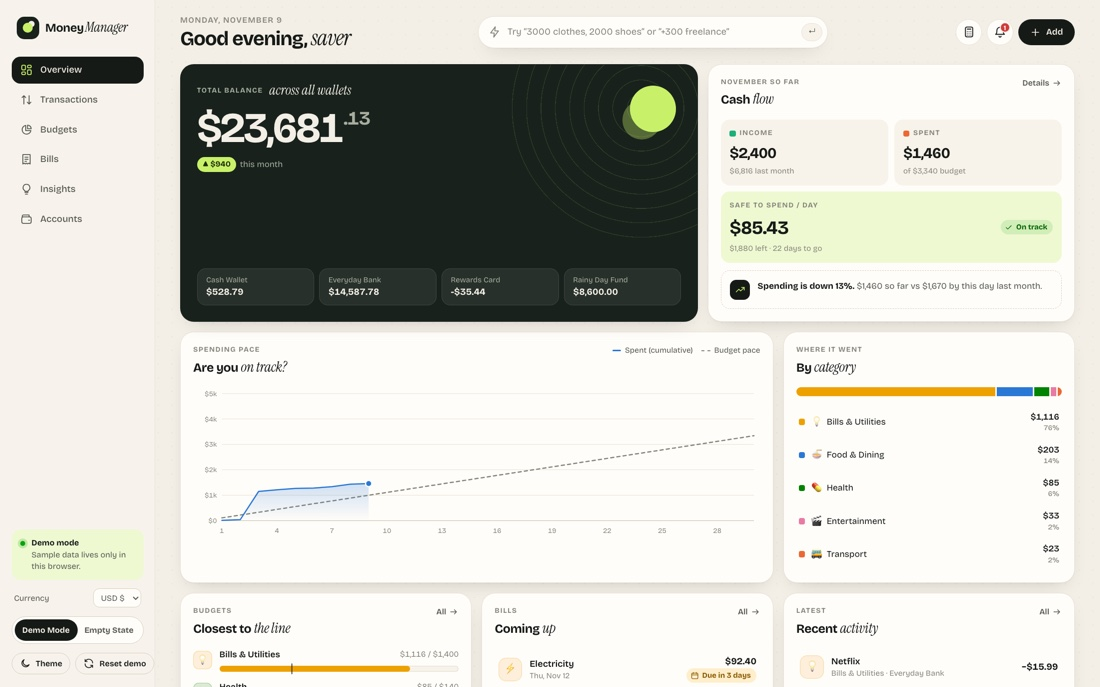
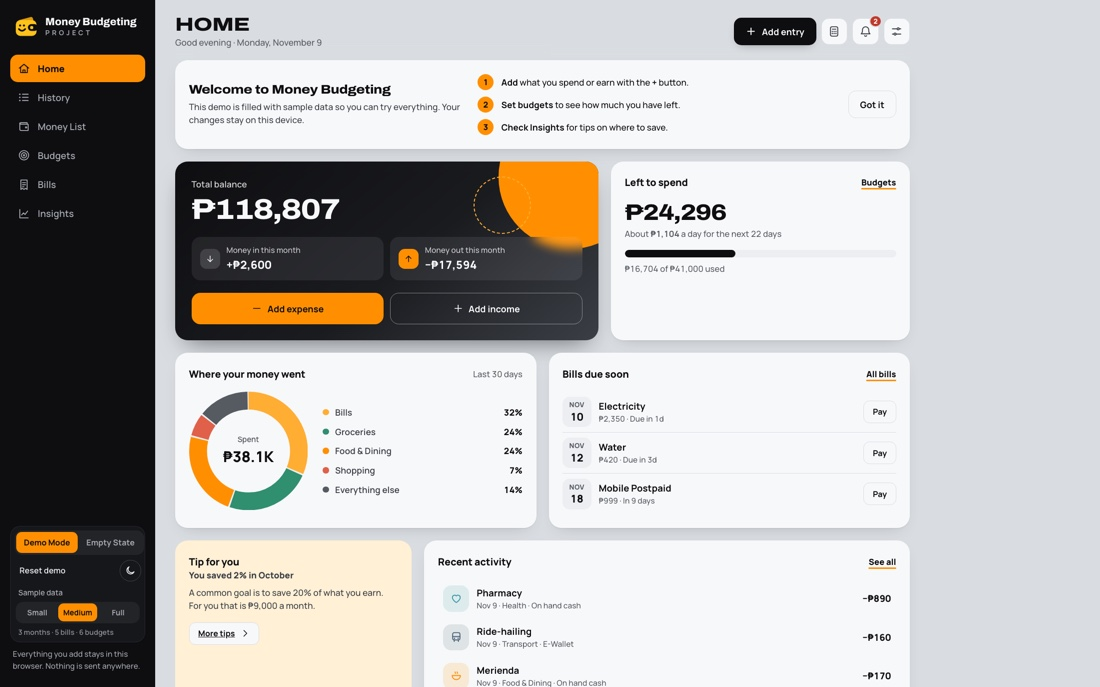
Update MoneyBudgeting card to the new app

diff --git a/src/data.js b/src/data.js
@@ -122,11 +122,11 @@ export const projects = [
     title: 'MoneyBudgeting',
     label: 'Personal Project · Sept – Nov 2026',
     description:
-      'A personal budget planner and expense tracker. Quick-add entries like "12.50 lunch" with auto-categorizing, monthly budgets with pace alerts, a bills calendar, spending insights, multiple wallets and a built-in calculator. Runs fully in the browser with no backend.',
+      'A mobile-first budgeting app to track income, expenses, category budgets, bills with due dates and spending charts. "Money Lists" keep running balances for cash, bank and e-wallet, showing money set aside vs. free to spend. Includes a demo mode with sample data, custom categories and light/dark themes, all saved in the browser.',
     tags: ['JavaScript', 'HTML5', 'CSS3', 'localStorage', 'Vercel'],
     image: '/projects/moneybudgeting.jpg',
-    live: 'https://money-manager-six-phi.vercel.app',
-    code: 'https://github.com/Vonnie09/money-manager',
+    live: 'https://money-budgeting.vercel.app',
+    code: 'https://github.com/Vonnie09/money-budgeting',
   },
 ]
 
